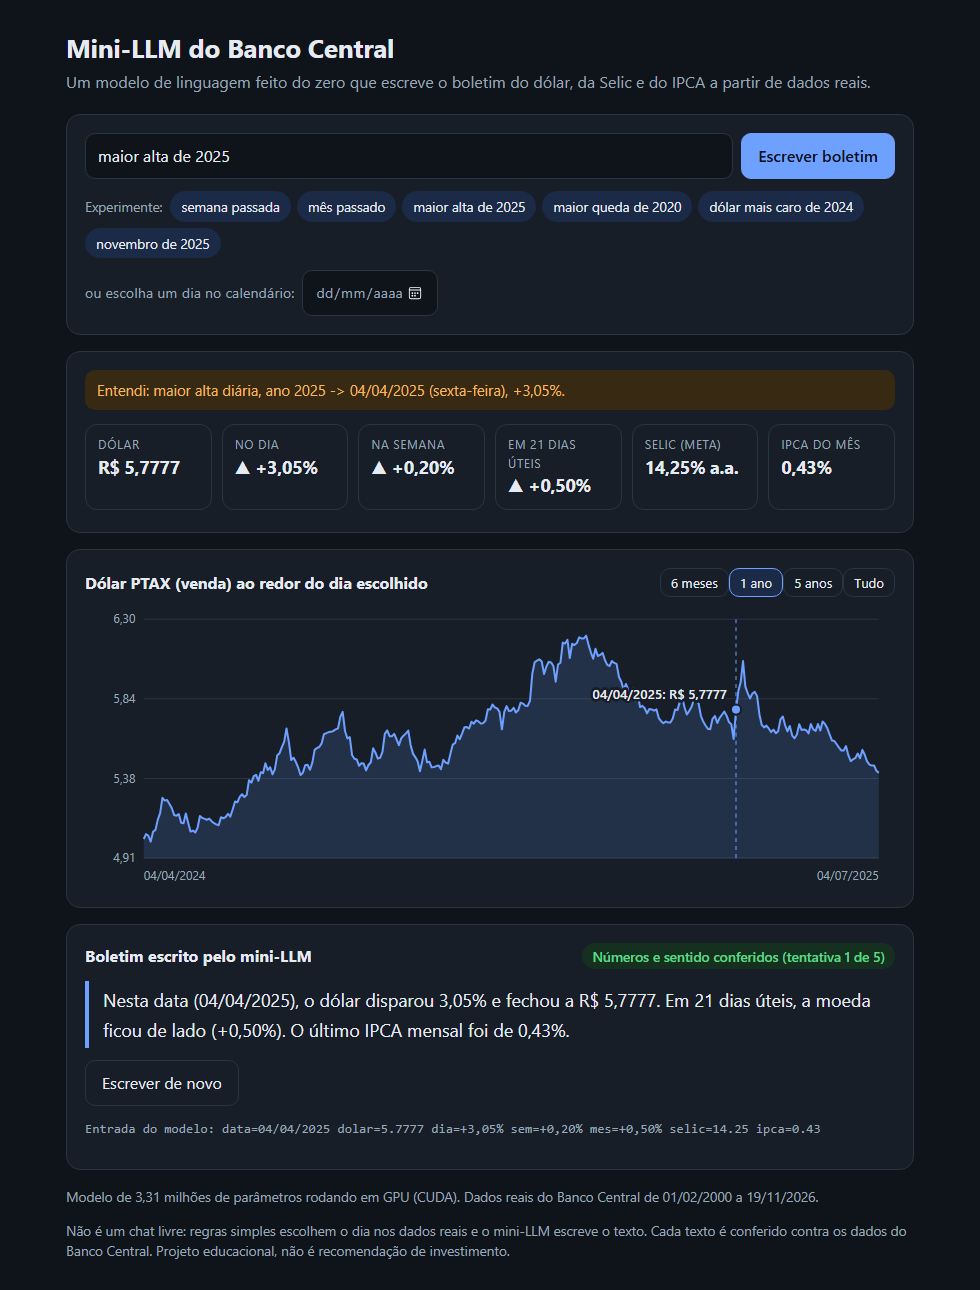
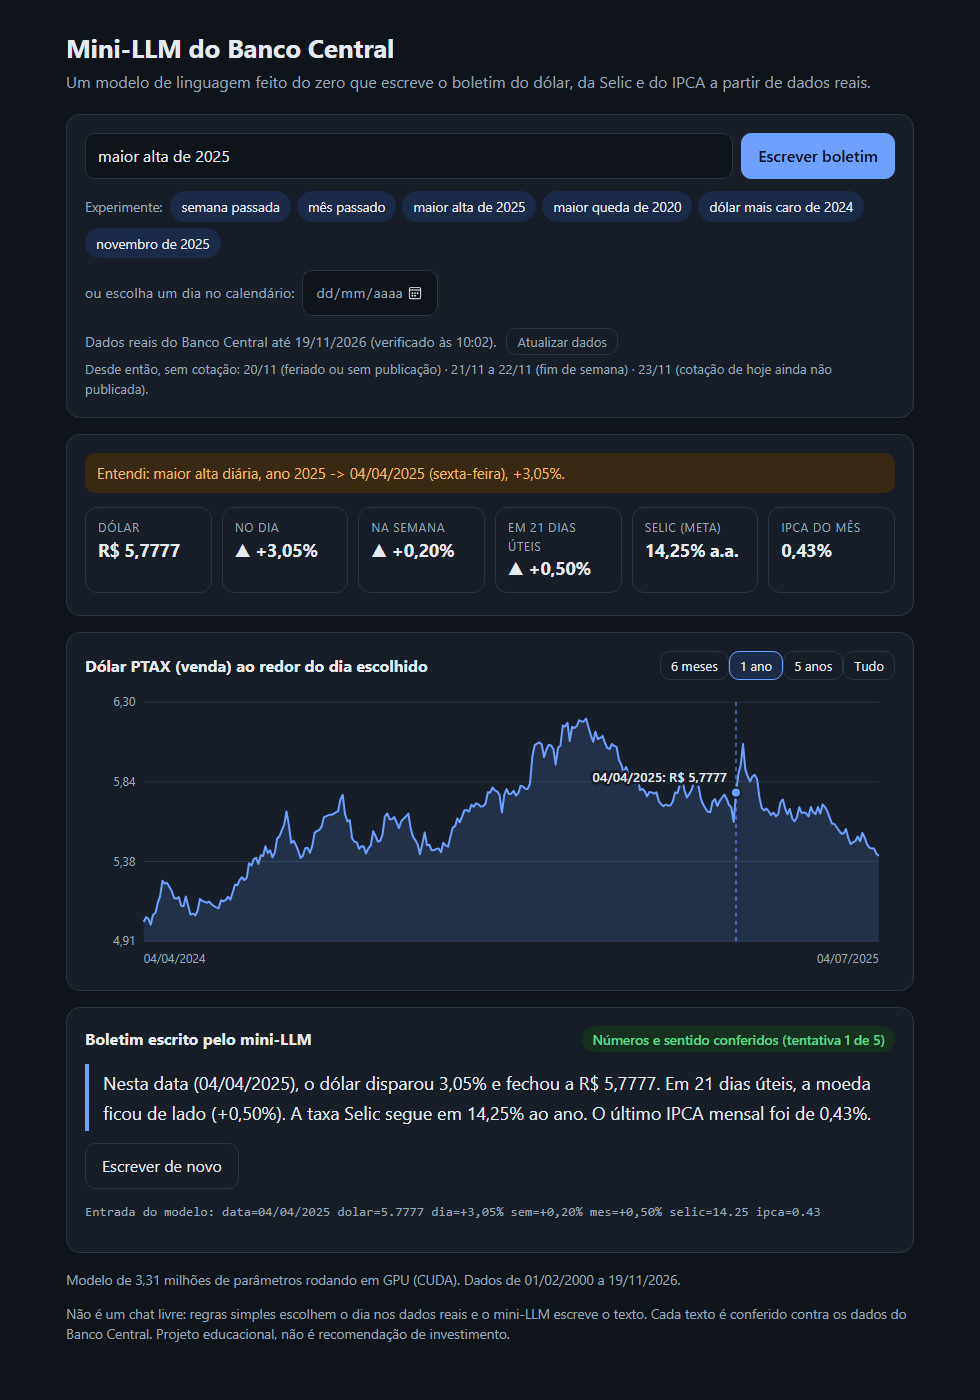
Web: verifica dados novos, botao Atualizar dados e explica a lacuna
- O servidor consulta o Banco Central sozinho a cada 30 minutos (so baixa o que falta)
- Botao "Atualizar dados" forca a consulta e informa se havia novidade
- A pagina mostra ate que dia ha cotacao, quando foi verificado e por que nao ha
  dado mais novo (fim de semana, feriado ou cotacao do dia ainda nao publicada)
- src/bcb.py registra em ERROS quando uma serie usou o cache por falha de rede, e a
  pagina avisa em vez de dizer "ja atualizado" sem ter conseguido consultar
- README e captura de tela atualizados

diff --git a/minillm/pagina.html b/minillm/pagina.html
@@ -41,6 +41,9 @@
   .chips span.rot { color: var(--suave); font-size: .85rem; margin-right: 2px; }
   .chip { padding: 4px 10px; font-size: .85rem; border-radius: 999px; background: var(--acento-fundo); border-color: transparent; }
   label.data { display: inline-flex; gap: 8px; align-items: center; color: var(--suave); font-size: .9rem; margin-top: 12px; }
+  .status { margin: 12px 0 0; color: var(--suave); font-size: .88rem; display: flex; gap: 6px 10px; align-items: center; flex-wrap: wrap; }
+  .status button { padding: 3px 10px; font-size: .82rem; }
+  #lacuna { margin-top: 4px; font-size: .82rem; }
   .nota { background: var(--nota-fundo); color: var(--nota); border-radius: 10px; padding: 9px 12px; font-size: .92rem; }
   .erro { background: var(--erro-fundo); color: var(--erro); border-radius: 10px; padding: 12px; white-space: pre-wrap; }
   .cards { display: grid; grid-template-columns: repeat(auto-fit, minmax(125px, 1fr)); gap: 10px; margin: 14px 0 4px; }
@@ -75,6 +78,8 @@
     <div class="chips" id="chips"><span class="rot">Experimente:</span></div>
     <label class="data">ou escolha um dia no calendário:
       <input type="date" id="data" aria-label="Escolher um dia"></label>
+    <p class="status" id="status"></p>
+    <p class="status" id="lacuna" hidden></p>
   </section>
 
   <div id="resultado" aria-live="polite" aria-busy="false">
@@ -236,6 +241,31 @@ function montarFaixas() {
   });
 }
 
+function mostrarInfo(info) {
+  $("#data").min = info.primeiro; $("#data").max = info.ultimo;
+  const texto = document.createElement("span");
+  texto.textContent = `Dados reais do Banco Central até ${dataBR(info.ultimo)} (verificado às ${info.verificado}).`;
+  const botao = document.createElement("button");
+  botao.type = "button"; botao.id = "atualizar"; botao.textContent = "Atualizar dados"; botao.onclick = atualizarDados;
+  const msg = document.createElement("span"); msg.id = "msgdados"; msg.textContent = info.erro || "";
+  $("#status").replaceChildren(texto, botao, msg);
+  const lac = $("#lacuna");
+  lac.hidden = info.lacuna.length === 0;
+  lac.textContent = "Desde então, sem cotação: " + info.lacuna.map((l) => `${l.quando} (${l.motivo})`).join(" · ") + ".";
+  $("#rodape").textContent = `Modelo de ${num(info.parametros / 1e6, 2)} milhões de parâmetros rodando em ${info.dispositivo}. ` +
+    `Dados de ${dataBR(info.primeiro)} a ${dataBR(info.ultimo)}.`;
+}
+
+async function atualizarDados() {
+  const b = $("#atualizar"); b.disabled = true; $("#msgdados").textContent = "Consultando o Banco Central…";
+  try {
+    const r = await api("/api/atualizar");
+    mostrarInfo(await api("/api/info"));
+    $("#msgdados").textContent = r.mensagem;
+    if (r.mudou) pedir("mais recente");
+  } catch (e) { $("#msgdados").textContent = "Não consegui atualizar: " + e; b.disabled = false; }
+}
+
 async function iniciar() {
   montarFaixas();
   const info = await api("/api/info");
@@ -245,9 +275,7 @@ async function iniciar() {
     b.onclick = () => { $("#pedido").value = t; pedir(t); };
     chips.append(b);
   });
-  $("#data").min = info.primeiro; $("#data").max = info.ultimo;
-  $("#rodape").textContent = `Modelo de ${num(info.parametros / 1e6, 2)} milhões de parâmetros rodando em ${info.dispositivo}. ` +
-    `Dados reais do Banco Central de ${dataBR(info.primeiro)} a ${dataBR(info.ultimo)}.`;
+  mostrarInfo(info);
   // link direto: http://127.0.0.1:8765/?pedido=maior%20alta%20de%202025
   const inicial = new URLSearchParams(location.search).get("pedido");
   if (inicial) $("#pedido").value = inicial;

diff --git a/minillm/web.py b/minillm/web.py
@@ -5,7 +5,8 @@ só o seu computador acessa. Nada sai da sua máquina, a não ser o download dos
 
 Rotas:
   /               a página (minillm/pagina.html)
-  /api/info       informações do modelo e dos dados
+  /api/info       informações do modelo e dos dados (e confere dados novos a cada 30 min)
+  /api/atualizar  busca agora, no Banco Central, dados mais novos que os salvos
   /api/boletim    ?pedido=...   interpreta o pedido, o mini-LLM escreve e o verificador confere
   /api/serie      ?centro=AAAA-MM-DD&dias=N   pontos do gráfico do dólar
 """
@@ -14,15 +15,18 @@ from __future__ import annotations
 import json
 import threading
 import webbrowser
-from datetime import date, timedelta
+from datetime import date, datetime, timedelta
 from http.server import BaseHTTPRequestHandler, ThreadingHTTPServer
 from pathlib import Path
 from urllib.parse import parse_qs, urlparse
+
+from src import bcb
 
 from .perguntas import Base, interpretar
 from .treino import DEVICE, TENTATIVAS, _registros, carregar_modelo, escrever_confiavel
 
 PAGINA = Path(__file__).with_name("pagina.html")
+MSG_OFFLINE = "Não consegui consultar o Banco Central agora; estou usando os dados já salvos."
 EXEMPLOS = ["semana passada", "mês passado", "maior alta de 2025", "maior queda de 2020",
             "dólar mais caro de 2024", "novembro de 2025"]
 # só aceita a página carregada por estes endereços (protege contra páginas de outros sites falando com o servidor)
@@ -37,17 +41,69 @@ def _registro_json(r) -> dict:
 def servir(porta: int = 8765, abrir: bool = True) -> None:
     print("Carregando o mini-LLM e os dados do Banco Central...")
     modelo, stoi, itos = carregar_modelo()
-    base = Base(_registros())
+    estado = {"base": Base(_registros()), "verificado": datetime.now(), "erro": ""}
+    if bcb.ERROS:  # já ao ligar, sem internet: avisa que está usando os dados salvos
+        estado["erro"] = MSG_OFFLINE
     parametros = sum(p.numel() for p in modelo.parameters())
     trava = threading.Lock()  # um texto por vez
+    trava_dados = threading.Lock()
+
+    def atualizar(forcar: bool = False) -> dict:
+        """Busca dados novos no Banco Central (só baixa o que falta). Sem `forcar`, no máximo a cada 30 minutos."""
+        with trava_dados:
+            if not forcar and datetime.now() - estado["verificado"] < timedelta(minutes=30):
+                return {"mudou": False}
+            antes = estado["base"].ultimo
+            try:
+                estado["base"] = Base(_registros())
+                # o bcb.carregar não derruba o programa se a internet cair: usa o cache e registra a falha em ERROS
+                estado["erro"] = MSG_OFFLINE if bcb.ERROS else ""
+            except Exception as e:  # sem internet e sem cache
+                estado["erro"] = f"Não consegui falar com o Banco Central ({e}). Usando os dados salvos."
+            estado["verificado"] = datetime.now()
+            return {"mudou": estado["base"].ultimo != antes, "antes": antes, "agora": estado["base"].ultimo}
+
+    def lacuna(ultimo: date, hoje: date) -> list[dict]:
+        """O que houve entre o último dia com cotação e hoje: explica por que não há dado mais novo."""
+        itens, d = [], ultimo + timedelta(days=1)
+        while d <= hoje and len(itens) < 8:
+            if d.weekday() >= 5:
+                motivo = "fim de semana"
+            elif d == hoje:
+                motivo = "cotação de hoje ainda não publicada"
+            else:
+                motivo = "feriado ou sem publicação"
+            if itens and itens[-1]["motivo"] == motivo and itens[-1]["fim"] == d - timedelta(days=1):
+                itens[-1]["fim"] = d
+            else:
+                itens.append({"ini": d, "fim": d, "motivo": motivo})
+            d += timedelta(days=1)
+        return [{"quando": f"{i['ini']:%d/%m}" + (f" a {i['fim']:%d/%m}" if i["fim"] != i["ini"] else ""),
+                 "motivo": i["motivo"]} for i in itens]
 
     def info() -> dict:
+        atualizar()
+        base = estado["base"]
         return {"ok": True, "primeiro": base.primeiro.isoformat(), "ultimo": base.ultimo.isoformat(),
+                "verificado": estado["verificado"].strftime("%H:%M"), "erro": estado["erro"],
+                "lacuna": lacuna(base.ultimo, date.today()),
                 "parametros": parametros, "dispositivo": "GPU (CUDA)" if DEVICE == "cuda" else "CPU",
                 "exemplos": EXEMPLOS}
 
+    def atualizar_agora() -> dict:
+        r = atualizar(forcar=True)
+        ultimo = estado["base"].ultimo
+        if estado["erro"]:
+            msg = estado["erro"]
+        elif r["mudou"]:
+            msg = f"Novos dados! O último dia com cotação agora é {ultimo:%d/%m/%Y} (antes: {r['antes']:%d/%m/%Y})."
+        else:
+            msg = f"Já estava atualizado: o Banco Central não publicou nada depois de {ultimo:%d/%m/%Y}."
+        return {"ok": True, "mudou": bool(r["mudou"]), "mensagem": msg}
+
     def boletim(pedido: str) -> dict:
-        esc = interpretar(pedido.strip()[:200], base, date.today())
+        atualizar()
+        esc = interpretar(pedido.strip()[:200], estado["base"], date.today())
         if esc.registro is None:
             return {"ok": False, "mensagem": esc.mensagem}
         with trava:
@@ -56,6 +112,7 @@ def servir(porta: int = 8765, abrir: bool = True) -> None:
                 "texto": texto, "conferiu": bool(conferiu), "tentativa": tentativa, "tentativas": TENTATIVAS}
 
     def serie(centro: date, dias: int) -> dict:
+        base = estado["base"]
         dias = max(30, min(dias, 9000))
         ini = centro - timedelta(days=dias)
         fim = min(centro + timedelta(days=max(dias // 4, 10)), base.ultimo)
@@ -96,6 +153,8 @@ def servir(porta: int = 8765, abrir: bool = True) -> None:
                     return self._enviar(PAGINA.read_bytes(), "text/html; charset=utf-8")
                 if u.path == "/api/info":
                     return self._json(info())
+                if u.path == "/api/atualizar":
+                    return self._json(atualizar_agora())
                 if u.path == "/api/boletim":
                     return self._json(boletim(q.get("pedido", "")))
                 if u.path == "/api/serie":

diff --git a/src/bcb.py b/src/bcb.py
@@ -23,6 +23,9 @@ SERIES = {
 INICIO_PADRAO = date(2000, 1, 3)
 DATA_DIR = Path(__file__).resolve().parent.parent / "data"
 URL = "https://api.bcb.gov.br/dados/serie/bcdata.sgs.{codigo}/dados"
+# Séries cuja última tentativa de atualização falhou (e que, por isso, estão usando o cache salvo).
+# Quem chama pode conferir: um dict vazio significa que tudo foi consultado com sucesso no Banco Central.
+ERROS: dict[str, str] = {}
 
 
 def _baixar_trecho(codigo: int, ini: date, fim: date) -> pd.DataFrame:
@@ -81,8 +84,10 @@ def carregar(nome: str, atualizar: bool = True, desde: date = INICIO_PADRAO) -> 
             cache = novo if cache is None else pd.concat([cache, novo], ignore_index=True)
             cache = cache.drop_duplicates("data", keep="last").sort_values("data")
             cache.to_csv(arq, index=False)
+            ERROS.pop(nome, None)
         except (requests.RequestException, ValueError) as e:
             cache = cache_salvo
+            ERROS[nome] = f"{type(e).__name__}: {e}"
             if cache is None:
                 raise RuntimeError(f"Não consegui baixar '{nome}' do Banco Central e não há cache: {e}") from e
             print(f"[aviso] Não consegui atualizar '{nome}' ({type(e).__name__}); usando o cache salvo.")

diff --git a/README.md b/README.md
@@ -32,6 +32,11 @@ conferência. Funciona em celular e no tema claro ou escuro.
 
 ![Interface web do mini-LLM](docs/exemplo-web.png)
 
+**Dados sempre atualizados:** ao abrir, a página mostra até que dia há cotação e **quando foi verificado**. O servidor
+consulta o Banco Central sozinho a cada 30 minutos, e o botão **Atualizar dados** força a consulta na hora. Se o último
+dia não for hoje, a página explica o porquê (fim de semana, feriado ou cotação do dia ainda não publicada). Sem
+internet, ela avisa que está usando os dados já salvos, em vez de dizer que está atualizado.
+
 > O servidor escuta **só em `127.0.0.1`** (apenas o seu computador acessa) e não precisa instalar nada além do que
 > o projeto já usa. Dá para abrir um pedido direto pelo endereço, ex.: `http://127.0.0.1:8765/?pedido=maior%20alta%20de%202025`.
 > A captura é a página real, aberta em um navegador.
